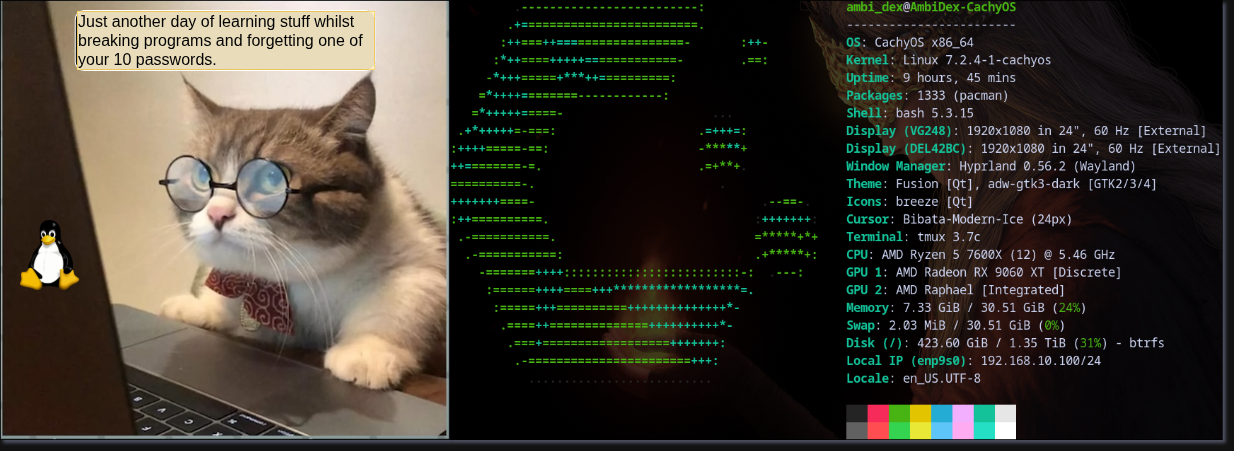
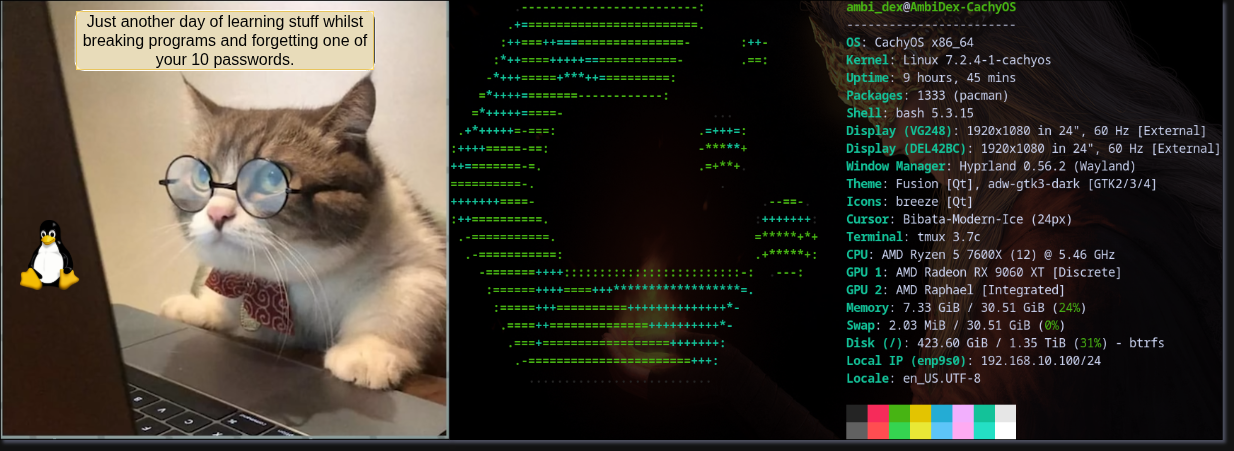
a good amount of small changes and added homelab.html page

Changed region(s): [[0.0616, 0.031, 0.3079, 0.1552]]

diff --git a/pages/index.html b/pages/index.html
@@ -9,8 +9,9 @@
 <body>
 <nav>
     <a href="/">Home</a>
-    <a href="/projects">Projects</a>
-    <a href="/posts">Posts</a>
+    <a href="/projects">My Projects</a>
+    <a href="/homelab">My Homelab</a>
+    <a href="/posts">My Posts</a>
 </nav>
 <div class="hero-box">
     <h1>Welcome to My First Domain</h1>
@@ -27,10 +28,12 @@
 </pre>
 <h2 class="left-text">About Me</h2>
 <div class="my-text-block">
-    <p>This is meant to be a laid back personal project repository for me. I will be using this same domain to also broadcast my thoughts and questions into the ethernet. This obviously will not get much engagement but, I will make sure to link my personal projects.</p> 
-    <p>My main experience with programming is through my online undergrad courses that I am taking as well as all of my free time is spent learning about Networking/Software and basics of computer architecture as well. I will obtain my BSCS Software Engineering by spring of 2028. I don't feel like school is getting me anywhere near ready for what the real world is going to expect from me. I plan on being ready to adapt and as I always have in my past surroundings.</p> 
+    <p>This is meant to be a laid back personal project repository for me. I will be using this same domain to also broadcast my thoughts and questions into the ethernet. I am using this as a learning experience and tutorial into how to use web development. I chose not to use Java Script because, I am focusing on learing Python currently.</p> 
+    
+    <p>My main experience with programming is through my undergrad courses that I am taking. My free time is spent learning about Networking/Software Engineering, and basics of computer architecture as well. I will obtain my BSCS Software Engineering by spring of 2028. I don't feel like school is getting me anywhere near ready for what the real world is going to expect from me. Once I made this realization and understood that I don't stand a good chance of building great things and potentially obtaining a job that can help me get my first house. I would love to achieve this soon than later because, I am already 38 years old and took way too long in my life to make this decision - to focus on learning a skill as useful as Computer Science/Software Engineering.</p> 
 
-    <p>Since I have come to this realization; I have been doing everything in my power to get better at Networking/Software Engineering. I found out that I learn so much more just from hopping on my desktop or laptop and playing around in Bash and learning how to utilize window managers, desktop environments, network manager/system d, SSH/Git/IDE's, and really the desktop environment of a modern Software/Networking Engineer that uses Linux.. I was once a Microsoft Windows user and then I within the past year I have made the swap to Linux - big improvement!!</p>
+    <p>I have been doing everything in my power to get better at Networking/Software Engineering. I found out that I learn so much more just from hopping on my desktop or, laptop and playing around in Bash. I really am enjoying the learning process of how to utilize window managers, desktop environments, network manager/system d, SSH/Git/IDE's, and really the desktop environment of a modern Software/Networking Engineer that uses Linux.. I was once a Microsoft Windows user and then I within the past year I have made the swap to Linux - big improvement for me personally. Just the fact that I am not constantly harrassed about signing up for a service I have denied numerous times a day AND can turn on at anytime. They need to really stop being so predatory but, in the same breath - I want Linux desktop to rise and would bring forth some more funding towards FOSS services that I use.</p>
+    
     <p>I like to work out in my freetime as well as read and cook/watch movies and chill. I haven't had much time to dedicate towards this stuff besides the working out and cooking but, I would love to get back into watching a TV show series, maybe Mr. Robot.that seems like a show that I would find very interesting. I used to be a Personal Trainer certified through National Academy of Sports Medicine (NASM). I still train people here and there privately and not at commercial establishments anymore. I find that if I take care of my body, my mind end up rewarding me by actually being able to focus and retain lessons I learn in my CS studies. Thank you for taking the time to read all this and I hope that I at least raise an eyebrow or two with some of my projects... Either way, you're here.</p>
 </div>
 <h2 class="left-text">What I'm Building</h2>
@@ -40,15 +43,15 @@
     <p>My near future work is going to stay somewhat general and vague. I am going to be working on a AI IDE/integrated Bash console via Alacritty or Foot terminal emulator. It will be pretty easy to do from what I have been reading. I will be utilizing Ollama.cpp as my backend service and I only have a rx9060xt 16gb but, I am still able to utilize a 20 billion parameter model on the GPU.</p> 
     <p>Since I have a decent CPU, I will run my main display through my integrated GPU on the CPU. This will be something that I will possibly host as a branch of this domain. If not then I will at least share the program code and then config files in how I end up setting this up people ended up liking this.</p> 
     <p>I would really like to learn more about the open source world and in particular the Operating System - services that make up OS's and other programs that need to be quick and memory efficient. I know that if I am serious about this pursuit; I will have to learn C/C++ and/or Rust. I am not used to statically typed languages like these, yet. I practice with some basic programs in C/C++ but, nothing impressive at all. Rust is something that I won't touch until I get a better understanding of memory management and how to utilize the lower level control that C/C++ offers us SWE's and aspiring SWE's - like myself. I find the lower level C/C++ programming and even lower level programming like assembly. I find the whole process of modern day computing and we constantly abstract and encapsulate to then continue the process and build upon it's predecessor's is just so intriguing. Maybe in the future I will learn some basic modern day x86_64 Assembly to play around with and start a low level repository...Hmmm..</p>
-<div class="terminal">
+<div class="hero-box">
     <img src="/static/images/study_cat.png" alt="Cat" style="width: 100%; margin-top: 10px;">
 </div>
-
-<!-- LINKS -->
-<div class="left-text" style="margin-top: 40px;">
-    <a class="project-link" href="/projects">View My Projects</a>
-    <a class="project-link" href="/posts">Read My Posts</a>
-</div>
+<nav>
+    <a href="/">Home</a>
+    <a href="/projects">My Projects</a>
+    <a href="/homelab">My Homelab</a>
+    <a href="/posts">My Posts</a>
+</nav>
 
 </body>
 </html>

diff --git a/pages/projects.html b/pages/projects.html
@@ -11,54 +11,48 @@
 
 <nav>
     <a href="/">Home</a>
-    <a href="/projects">Projects</a>
-    <a href="/posts">Posts</a>
+    <a href="/projects">My Projects</a>
+    <a href="/homelab">My Homelab</a>
+    <a href="/posts">My Posts</a>
 </nav>
-
 <div class="hero-box">
     <h1>Personal Projects</h1>
 </div>
-
 <div class="my-text-block">
     <p>Here's my projects that I am working on currently and/or finished for my use case..I want to state that these projects aren't something amazing. Majority of the logic was thought then written by me. I utilize LLM's but just free tier Claude and local LLM's that I can use via Ollama.cpp and my RX9060XT 16gb. My first few projects were things that I wanted to make and use myself, and help me learn how to utilize the bash terminal because I have spent the past 8 months learning how to utilize many different tools like Foot/Alacritty, Tmux, Nvim/vim, Bash, Docker, Nginx and many more. I am still getting the hang of all these amazing tools but, I can understand why people enjoy the CLI route when it comes to SWE on a Linux device.</p>  
-    
     <p>I plan on making a frontend for Ollama and possibly spend time trying to create some useful agents. I am unaware how to do so with my current hardware. The only route I was thinking of is using ModelFiles to try and specialize the LLM into focusing on something like Networking. I don't know if I am able to force the LLM to only utilize certain parts of the data set/sets that make them up. This way I might be able to have a bigger context window. Having a bigger context window would make the small models I have access to much more effective.</p>
-
     <p>I want to keep working on creating new projects but, I need to start looking into creating tougher applications. I wanted to also look into more C/C++ programming and eventually, Rust. I feel like Rust is the future but, it is still in its infacy. If not Rust then something like Rust or, better.</p>
 </div>
 <div class="left-text">
-    
     <div class="card">
         <h3>Expense Tracker</h3>
-        <a class="project-link" href="/projects/expense_tracker/">
+        <a class="project-link" href="/projects/expense_tracker_/">
             Native Repository
         </a>
     </div>
-
     <div class="card">
         <h3>To-Do List</h3>
-        <a class="project-link" href="/projects/todo/">
+        <a class="project-link" href="/projects/todo_/">
             Native Repository 
         </a>
     </div>
-
     <div class="card">
         <h3>Dev_Log</h3>
-        <a class="project-link" href="/projects/dev_log/">
+        <a class="project-link" href="/projects/devlog_/">
             Native Repository
         </a>
     </div>
     <div class="card">
         <h3>Replog</h3>
-        <a class="project-link" href="/projects/replog/">
+        <a class="project-link" href="/projects/replog_/">
             Native Repository
     </div>
-    
-    <div class="left-text" style="margin-top: 40px;">
-        <a class="project-link" href="/">Return Home</a>
-        <a class="project-link" href="/posts">Or, Check Posts</a>
-    </div>
-    
+<nav>
+    <a href="/">Home</a>
+    <a href="/projects">My Projects</a>
+    <a href="/homelab">My Homelab</a>
+    <a href="/posts">My Posts</a>
+</nav>
 </body>
 </html>
 

diff --git a/static/style.css b/static/style.css
@@ -39,26 +39,24 @@ h1, h2, h3 {
     margin-bottom: 20px;
     font-weight: bold;
 }
-h1 { 
-    font-size: 3.5rem;
-    margin-bottom: 10px;
-}
-h2 { font-size: 2.5rem; 
-     margin-top: 40px 0;}
 
-     h3 { font-size: 1.8rem; }
+h1 { font-size: 3.8rem; }
+
+h2 { font-size: 2.5rem; }
+
+h3 { font-size: 1.8rem; }
 
 a {
     color: #6cf;
     text-decoration: none;
     font-weight: bold;
 }
-a:hover {
-    color: #33ff88;
-}
+nav a { margin-right: 20px; }
+
+a:hover { color: #33ff88; }
 
 .projects {
-   udisplay: block;
+    display: block;
     padding: 12px 16px;
     margin: 12px 0;
     background: #222;
@@ -80,20 +78,14 @@ a:hover {
     border-left: 5px solid red;
 }
 
-nav {
-    margin-bottom: 40px;
-
-}
-nav a {
-    margin-right: 20px;
-}
+nav { margin-bottom: 20px;
+      margin-top: 20px; }
 
 .hero-box {
     background: linear-gradient(100deg, #0a1a2f, #112544);
-    padding: 20px;
+    padding: 10px;
     border-radius: 15px;
     border-left: 5px solid red;
-    margin-bottom: 20px;
     text-align: center;
     box-shadow: 0 0 25px rgba(0, 255, 102, 0.25);
     animation: glow 2s infinite alternate;
@@ -108,8 +100,8 @@ nav a {
     to   { border-left-color: #33ff88; }
 }
 
-/* Terminal block */
-.terminal {
+/* Normal box for holding pictures */
+.picture-box {
     background: #112544; /* slightly lighter navy */
     padding: 20px;
     border-radius: 8px;
@@ -117,6 +109,7 @@ nav a {
     color: red;
     margin-top: 30px;
     border-left: 4px solid red;
+    margin-bottom: 30px;
 }
 /* This is my element that will allow me to put paragraph formatting inside of my html element containers... I am learning...*/
 .my-text-block p {
@@ -132,7 +125,6 @@ nav a {
     line-height: 1.1;   /* Tighten spacing so ASCII stays aligned*/
     margin-top: 25px;   /* optional */
     margin-bottom: 10px;     /* spacing above/below */
-    margin: 40px auto;      /* center the block itself*/
     color: #00ff66;
     text-shadow: 0 0 8px #00ff66;
     text-align: center;

diff --git a/pages/homelab.html b/pages/homelab.html
@@ -1,0 +1,43 @@
+<!DOCTYPE html>
+<html lang="en">
+
+<head>
+    <meta charset="UTF-8">
+    <meta name="viewport" content="width=device-width, initial-scale=1.0">
+    <title>RepLog</title>
+    <link rel="stylesheet" href="/static/style.css">
+</head>
+
+<body>
+
+<nav>
+    <a href="/">Home</a>
+    <a href="/projects">My Projects</a>
+    <a href="/homelab">My Homelab</a>
+    <a href="/posts">My Posts</a>
+</nav>
+
+<div class="card">
+    <h1>My Homelab and Hardware setup</h1>
+</div>
+
+<div class="my-text-block">
+    <h3 class="left-text">Modem</h3> 
+    <p>I have a Arris Surfboard SB8200 </p>
+</div>
+
+<div class="hero-box">
+
+    <img src="/static/images/myhomelab.png" alt="Diagram" style="width: 100%; margin-top: 5px;">
+</div>
+
+<div class="my-text-block">
+    <p>This is the second line of test code to see what happens once it pops up onto my html page</p>
+
+<div class="hero-box">
+
+</div>
+
+</body>
+</html>
+

diff --git a/pages/posts.html b/pages/posts.html
@@ -9,19 +9,26 @@
 <body>
 <nav>
     <a href="/">Home</a>
-    <a href="/projects">Projects</a>
-    <a href="/posts">Posts</a>
+    <a href="/projects">My Projects</a>
+    <a href="/homelab">My Homelab</a>
+    <a href="/posts">My Posts</a>
 </nav>
 
 <div class="hero-box">
     <h1>Replog News & Posts</h1>
 </div>
 <h2 class="left-text">Feel free to post whatever you would like.</h2>
-<div class="card">
+<h3 class="left-text">This is a test</h3>
+<div class="hero-box">
     <h3>Example Post Title</h3>
     <p>This is where the posts will appear once backend is up.</p>
 </div>
-
+<nav>
+    <a href="/">Home</a>
+    <a href="/projects">My Projects</a>
+    <a href="/homelab">My Homelab</a>
+    <a href="/posts">My Posts</a>
+</nav>
 </body>
 </html>
 

diff --git a/src/syntax_highlighter.py b/src/syntax_highlighter.py
@@ -8,9 +8,19 @@ KEYWORDS = {
     'True', 'False', 'None'
 }
 
-def highlight_python(code):
-    code = html.escape(code)
+def safe_escape(code):
+    """Escape only the HTML characters that can break the page."""
+    return (
+        code.replace("&", "&amp;")
+            .replace("<", "&lt;")
+            .replace(">", "&gt;")
+    )
 
+def highlight_python(code):
+    # Escape ONLY <, >, &
+    code = safe_escape(code)
+
+    # Comments
     code = re.sub(
         r'(#.*?$)',
         r'<span class="comment">\1</span>',
@@ -18,18 +28,21 @@ def highlight_python(code):
         flags=re.MULTILINE
     )
 
+    # Strings — now quotes are REAL quotes
     code = re.sub(
-        r'(&quot;.*?&quot;|&#x27;.*?&#x27;)',
+        r'(\".*?\"|\'.*?\')',
         r'<span class="string">\1</span>',
         code
     )
 
+    # Numbers
     code = re.sub(
         r'\b(\d+)\b',
         r'<span class="number">\1</span>',
         code
     )
 
+    # Keywords
     for kw in KEYWORDS:
         code = re.sub(
             fr'(?<![=\w])\b{kw}\b(?![=\w])',

diff --git a/main.py b/main.py
@@ -28,6 +28,8 @@ class Handler(BaseHTTPRequestHandler):
     def do_GET(self):
         if self.path == '/':
             self.serve_file('pages/index.html', 'text/html')
+        elif self.path == '/homelab':
+            self.serve_file('pages/homelab.html', 'text/html')
         elif self.path == '/projects':
             self.serve_file('pages/projects.html', 'text/html')
 # This is the start of when the user may be lookning through my projects repo's
